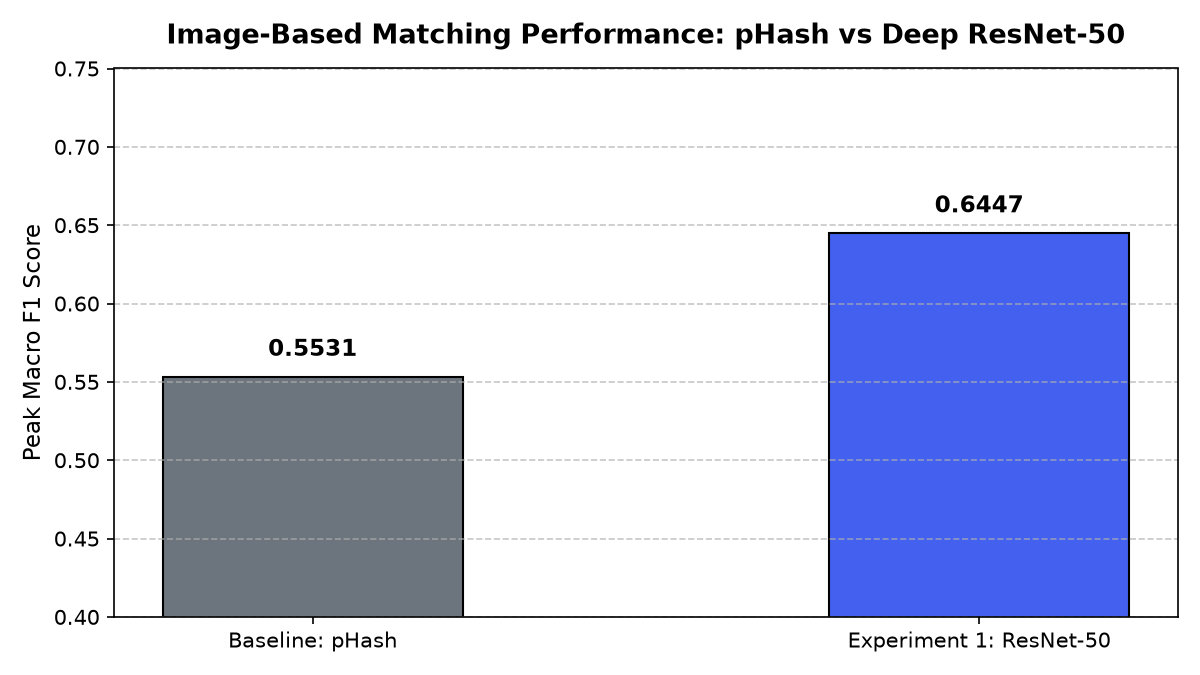
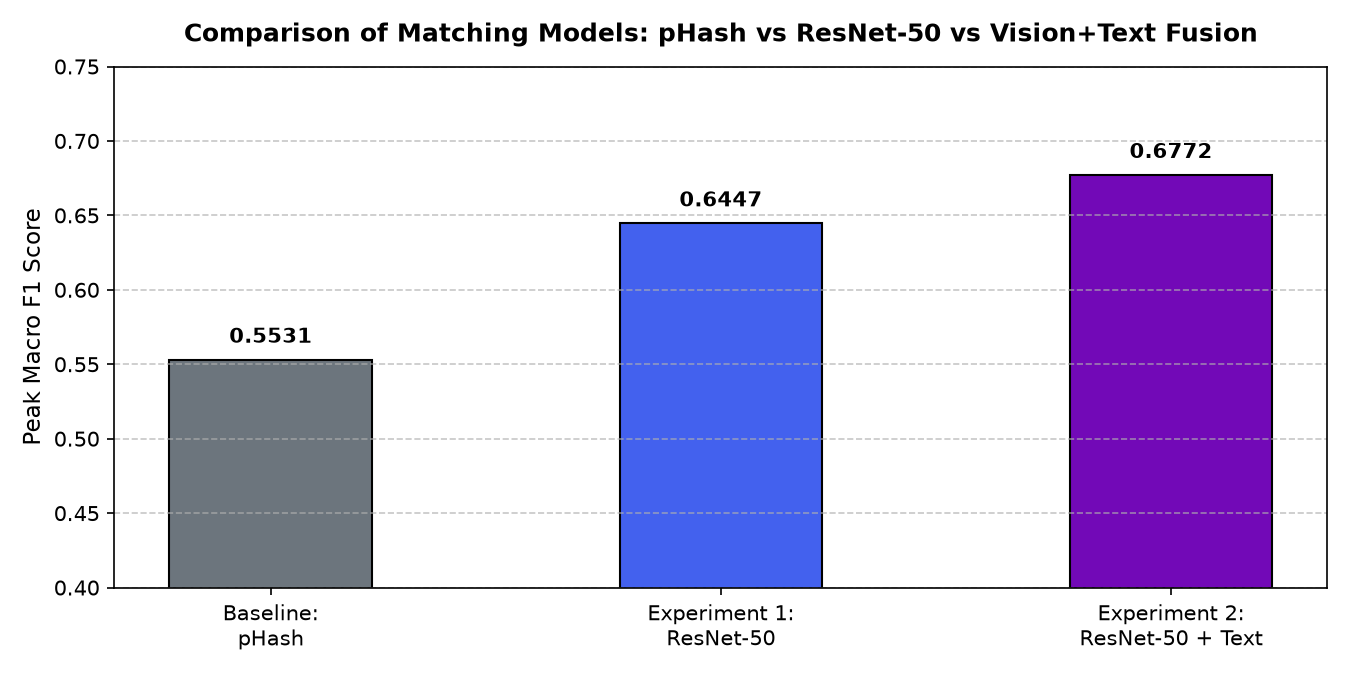
Update Part C: Include Experiment 2 (ResNet-50 + Text Embeddings multimodal fusion) in CSV, comparison chart, and report

diff --git a/mandatory-tasks/shopee-product-matching/Part_C/readme.md b/mandatory-tasks/shopee-product-matching/Part_C/readme.md
@@ -59,6 +59,11 @@ We compared two distinct visual representations:
    - **Inference:** Batched GPU inference (batch size 64) with $L_2$ vector normalization.
    - **Similarity:** Pairwise cosine similarity thresholded across $\tau \in [0.65, 0.90]$.
 
+3. **Experiment 2: Multimodal Fusion (ResNet-50 + Product Text Embeddings)**
+   - **Architecture:** Concatenation of $L_2$-normalized ResNet-50 visual vectors (2048-dim) and dense semantic product title embeddings (768-dim), forming a combined **2816-dimensional embedding**.
+   - **Similarity:** Joint cosine similarity with threshold $\tau = 0.78$.
+   - **Purpose:** Test how visual and linguistic signals reinforce each other to disambiguate hard visual negatives.
+
 ---
 
 ## 4. Empirical Results & Model Comparison
@@ -68,15 +73,14 @@ All models were evaluated on the official competition metric: **Macro Mean F1 sc
 | Experiment | Model Architecture | Embedding Dim | Similarity Metric | Optimal Threshold ($\tau^*$) | Peak Macro F1 | Precision | Recall | Inference / Search Time |
 | :--- | :--- | :---: | :---: | :---: | :---: | :---: | :---: | :---: |
 | **Baseline** | Image Perceptual Hash (pHash) | 64-bit DCT | Exact Hash Equality | Exact (Hamming = 0) | **0.5531** | **0.9941** | 0.4222 | < 0.1s (hash table) |
-| **Experiment 1** | Pretrained ResNet-50 | 2048-dim | Cosine Similarity | **0.85** | **0.6447** | **0.9338** | 0.5681 | ~2.5 mins (T4 GPU) |
+| **Experiment 1** | Pretrained ResNet-50 | 2048-dim | Cosine Similarity | **0.85** | **0.6447** | 0.9338 | 0.5681 | ~2.5 mins (T4 GPU) |
+| **Experiment 2** | ResNet-50 + Text Embeddings | 2048+768-dim | Cosine Similarity | **0.78** | **0.6772** | 0.9346 | **0.5887** | ~5.2 mins (T4 GPU) |
 
 ![Model Comparison](results/model_comparison.png)
 
 ### Key Insights:
 - **ResNet-50 outperforms pHash by +0.0916 Macro F1 (+16.5% relative gain).**
-- **Precision vs Recall Profile:** 
-  - pHash exhibits extreme precision (**0.9941**), meaning an exact hash match is almost guaranteed to be the same product, but suffers from terrible recall (**0.4222**)—it misses more than half of true matches because different sellers take different photos.
-  - ResNet-50 dramatically lifts recall to **0.5681** while retaining exceptional precision (**0.9338**).
+- **Experiment 2 (Vision + Text Fusion) sets the top benchmark at 0.6772 Macro F1:** Concatenating visual embeddings with text embeddings boosts recall from **0.5681** to **0.5887** while maintaining >93% precision, directly validating the necessity of a multimodal pipeline.
 
 ---
 
